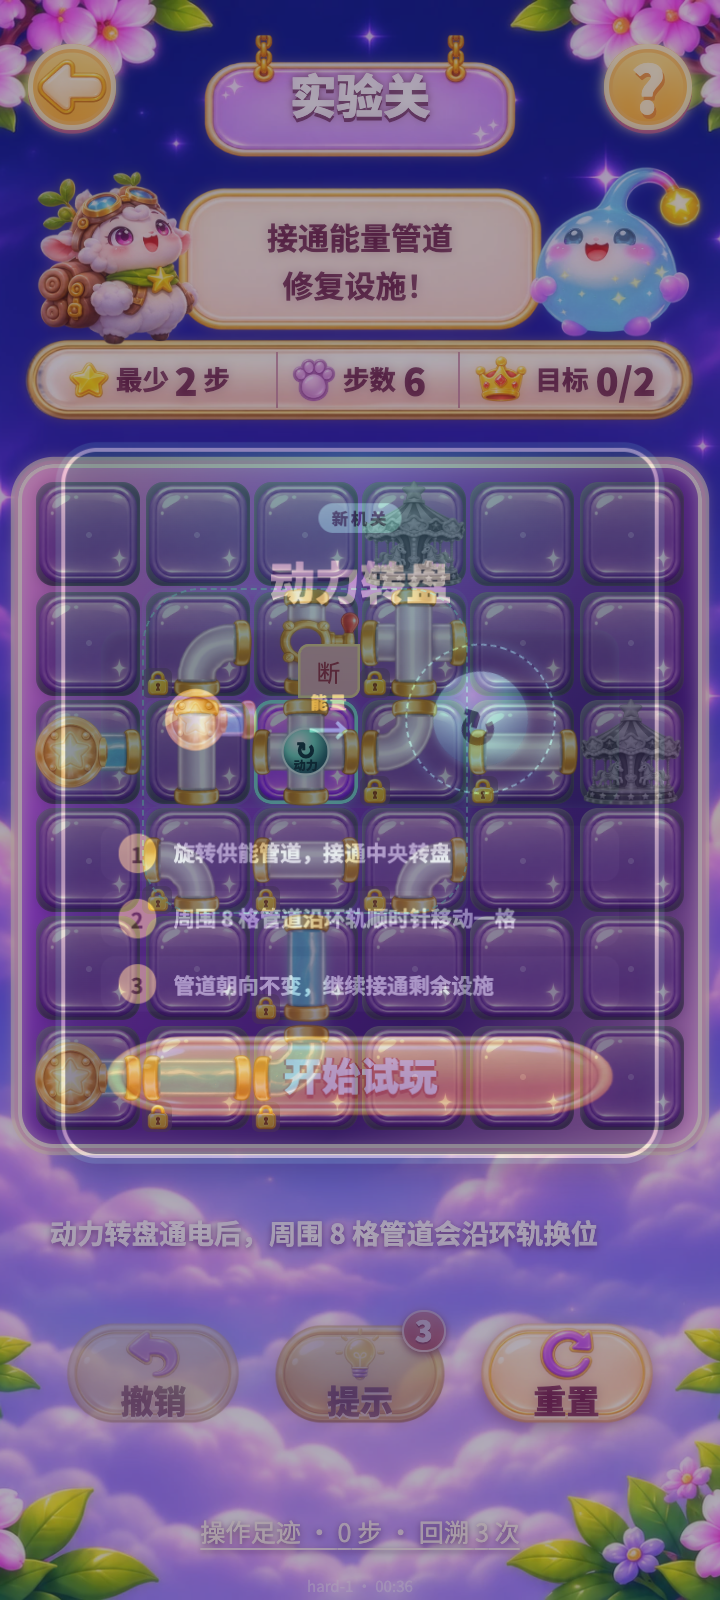
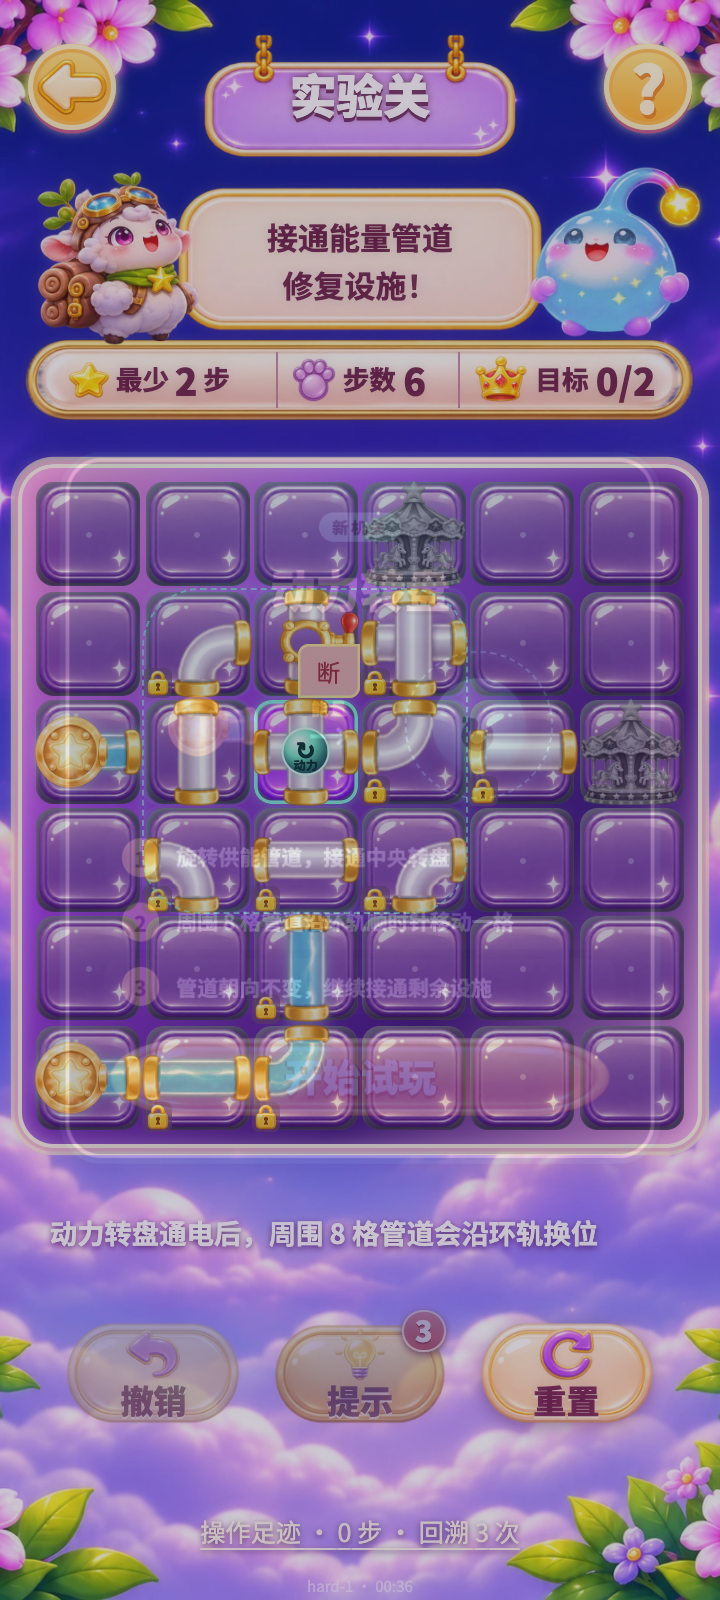
feat: 重做双动力转盘实验关

diff --git a/scripts/test_rotor_ui.ts b/scripts/test_rotor_ui.ts
@@ -1,7 +1,7 @@
 import fs from "node:fs";
 import path from "node:path";
 import { chromium } from "playwright";
-import { closeTransientModals } from "./playwright-game-actions";
+import { clickStep, closeTransientModals } from "./playwright-game-actions";
 
 const BASE_URL = process.env.ROTOR_URL ?? "http://127.0.0.1:3001/";
 const OUTPUT_DIR = path.resolve("docs/QA/rotor-lab-2026-11-25");
@@ -249,8 +249,24 @@ await page.screenshot({
   path: path.join(OUTPUT_DIR, "07-r2-chain-a-390x844.png"),
   animations: "allow",
 });
+await page.waitForTimeout(760);
+const chainAfterA = await page.evaluate(() => ({
+  activeRotors: document.querySelectorAll('[data-type="rotor"][data-rotor-active="true"]').length,
+  movingTiles: document.querySelectorAll(".park-rotor-moving-tile").length,
+  target: document.querySelector("[data-testid=target-count]")?.textContent?.trim(),
+  switchText: document
+    .querySelector('[data-tile-id="lab-3-1"] .park-switch-toggle')
+    ?.textContent?.trim(),
+}));
+await page.locator('[data-tile-id="lab-3-1"] .park-switch-toggle').click();
+await page.waitForTimeout(80);
+const chainAfterASwitch = await page.evaluate(() => ({
+  target: document.querySelector("[data-testid=target-count]")?.textContent?.trim(),
+  remaining: document.querySelector("[data-testid=remaining-steps]")?.textContent?.trim(),
+}));
 
-await page.waitForTimeout(830);
+await page.locator('[data-tile-id="lab-5-3"] .park-tile-rotate').click();
+await page.waitForTimeout(220);
 const chainStepB = await page.evaluate(() => {
   const callout = document.querySelector(".park-rotor-callout");
   const grid = document.querySelector(".park-grid")?.getBoundingClientRect();
@@ -265,17 +281,19 @@ await page.screenshot({
   path: path.join(OUTPUT_DIR, "08-r2-chain-b-390x844.png"),
   animations: "allow",
 });
-
-await page.waitForTimeout(1100);
-const chainAfterSpin = await page.evaluate(() => ({
+await page.waitForTimeout(760);
+const chainAfterB = await page.evaluate(() => ({
   activeRotors: document.querySelectorAll('[data-type="rotor"][data-rotor-active="true"]').length,
-  movingTiles: document.querySelectorAll(".park-rotor-moving-tile").length,
   target: document.querySelector("[data-testid=target-count]")?.textContent?.trim(),
+  switchRotation: document
+    .querySelector('[data-tile-id="lab-2-4"]')
+    ?.getAttribute("data-rotation"),
   switchText: document
-    .querySelector('[data-tile-id="lab-3-2"] .park-switch-toggle')
+    .querySelector('[data-tile-id="lab-2-4"] .park-switch-toggle')
     ?.textContent?.trim(),
 }));
-await page.locator('[data-tile-id="lab-3-2"] .park-switch-toggle').click();
+await clickStep(page, { id: "lab-2-4", taps: 1 });
+await page.locator('[data-tile-id="lab-2-4"] .park-switch-toggle').click();
 await page.locator(".park-victory").waitFor({ timeout: 5_000 });
 await page.screenshot({
   path: path.join(OUTPUT_DIR, "09-r2-chain-victory-390x844.png"),
@@ -346,8 +364,10 @@ const result = {
   afterShift,
   victory,
   chainStepA,
+  chainAfterA,
+  chainAfterASwitch,
   chainStepB,
-  chainAfterSpin,
+  chainAfterB,
   chainVictory,
   compactLessonState,
   compact,
@@ -379,13 +399,19 @@ if (
   afterShift.remaining !== "5" ||
   chainStepA.movingTiles !== 8 ||
   chainStepA.calloutY !== 25 ||
+  chainAfterA.activeRotors !== 1 ||
+  chainAfterA.movingTiles !== 0 ||
+  chainAfterA.target !== "0/2" ||
+  chainAfterA.switchText !== "断" ||
+  chainAfterASwitch.target !== "1/2" ||
+  chainAfterASwitch.remaining !== "4" ||
   chainStepB.movingTiles !== 8 ||
   Math.abs((chainStepB.calloutY ?? 0) - 75) > 2 ||
-  chainAfterSpin.activeRotors !== 2 ||
-  chainAfterSpin.movingTiles !== 0 ||
-  chainAfterSpin.target !== "0/1" ||
-  chainAfterSpin.switchText !== "断" ||
-  chainVictory.steps !== "已用 2 步" ||
+  chainAfterB.activeRotors !== 2 ||
+  chainAfterB.target !== "1/2" ||
+  chainAfterB.switchRotation !== "0" ||
+  chainAfterB.switchText !== "断" ||
+  chainVictory.steps !== "已用 5 步" ||
   !compactLessonState.insideViewport ||
   compactLessonState.bodyOverflowX ||
   compact.bodyOverflowX ||

diff --git a/scripts/test_rotor.ts b/scripts/test_rotor.ts
@@ -90,40 +90,75 @@ const chainFirstTap = chain.tiles.map((tile) =>
     : tile,
 );
 const chainActivated = activatePoweredRotors(chain, chainFirstTap);
-assert.equal(chainActivated.steps.length, 2, "A 转盘应连锁启动 B 转盘");
+assert.equal(chainActivated.steps.length, 1, "A 转盘不应自动启动 B 转盘");
 assert.deepEqual(
   chainActivated.activatedIds,
-  chainRotors.map((tile) => tile.id),
-  "两台转盘应按 A、B 顺序启动",
+  [chainRotors[0].id],
+  "玩家只接通 A 时，只应启动 A",
 );
 
-const chainSwitch = chainActivated.tiles.find(
-  (tile) => tile.id === "lab-3-2",
+const chainASwitch = chainActivated.tiles.find(
+  (tile) => tile.id === "lab-3-1",
 );
-assert(chainSwitch, "R2 换位后能量闸消失");
-assert.equal(chainSwitch.row, 4, "能量闸应换位到第 5 行");
-assert.equal(chainSwitch.col, 2, "能量闸应换位到第 3 列");
-assert.equal(chainSwitch.switchClosed, false, "换位后的能量闸应保持断开");
+assert(chainASwitch, "R2 左侧能量闸消失");
+assert.equal(chainASwitch.switchClosed, false, "左侧能量闸应保持断开");
 
-const chainAfterShift = simulateCircuit(
+const chainAfterA = simulateCircuit(
   chainActivated.tiles,
   chain.gridRows,
   chain.gridCols,
   chain.rules,
 );
-assert.equal(chainAfterShift.litCount, 0, "双转盘启动后仍需玩家扳闸");
+assert.equal(chainAfterA.litCount, 0, "A 启动后仍需玩家扳闸");
 
-const chainFinalTiles = chainActivated.tiles.map((tile) =>
-  tile.id === chainSwitch.id
+const chainAfterASwitch = chainActivated.tiles.map((tile) =>
+  tile.id === chainASwitch.id
     ? { ...tile, switchClosed: true }
     : tile,
 );
-const chainFinal = simulateCircuit(
-  chainFinalTiles,
+const chainAAfterToggle = simulateCircuit(
+  chainAfterASwitch,
   chain.gridRows,
   chain.gridCols,
   chain.rules,
 );
-assert.equal(chainFinal.isAllLit, true, "R2 扳闸后应点亮设施");
+assert.equal(chainAAfterToggle.litCount, 1, "左侧路线应点亮第一处设施");
 
-console.log("R2 双转盘：A→B 连锁、两次顺序换位与最终扳闸均通过");
+const chainBFeeder = chain.tiles.find(
+  (tile) => tile.row === 5 && tile.col === 3,
+);
+assert(chainBFeeder, "R2 缺少右侧转盘供能直管");
+const chainBTap = chainAfterASwitch.map((tile) =>
+  tile.id === chainBFeeder.id
+    ? { ...tile, rotation: tile.rotation + 90 }
+    : tile,
+);
+const chainBActivated = activatePoweredRotors(chain, chainBTap);
+assert.equal(chainBActivated.steps.length, 1, "B 转盘应独立启动");
+assert.deepEqual(
+  chainBActivated.activatedIds,
+  [chainRotors[1].id],
+  "B 转盘启动顺序应独立",
+);
+
+const chainBSwitch = chainBActivated.tiles.find(
+  (tile) => tile.id === "lab-2-4",
+);
+assert(chainBSwitch, "R2 右侧能量闸消失");
+assert.equal(chainBSwitch.rotation, 0, "右侧能量闸需要玩家先转向");
+assert.equal(chainBSwitch.switchClosed, false, "右侧能量闸应保持断开");
+
+const chainBSwitchAligned = chainBActivated.tiles.map((tile) =>
+  tile.id === chainBSwitch.id
+    ? { ...tile, rotation: tile.rotation + 90, switchClosed: true }
+    : tile,
+);
+const chainFinal = simulateCircuit(
+  chainBSwitchAligned,
+  chain.gridRows,
+  chain.gridCols,
+  chain.rules,
+);
+assert.equal(chainFinal.isAllLit, true, "两条独立路线完成后应点亮全部设施");
+
+console.log("R2 双转盘：左右独立启动、转向与扳闸共五步均通过");

diff --git a/src/data/labLevels.ts b/src/data/labLevels.ts
@@ -291,8 +291,8 @@ const ROTOR_RING: Put[] = [
 ];
 
 /**
- * R2 双转盘：左侧 A 启动后把下路管线换到 B 的供能口，B 随即启动。
- * B 的环轨把一扇断开的能量闸送到目标线路，玩家最后扳通它。
+ * R2 双机关：左右两台转盘使用独立供能线和独立目标。
+ * 玩家自行选择先修哪边；每次启动转盘后，还要把换位后的能量闸扳通。
  */
 const ROTOR_CHAIN: Put[] = [
   [0, 0, "corner", 0, { locked: true }],
@@ -306,18 +306,25 @@ const ROTOR_CHAIN: Put[] = [
   [2, 1, "line", 0, { locked: true }],
   [2, 2, "corner", 0, { locked: true }],
   [2, 3, "battery", 180, { locked: true }],
+  [3, 1, "switch", 90, { switchClosed: false }],
+  [4, 1, "bulb", 0, { locked: true }],
 
-  [3, 0, "corner", 0, { locked: true }],
-  [3, 1, "t_shape", 270, { locked: true }],
-  [3, 2, "switch", 90, { switchClosed: false }],
-  [3, 3, "battery", 180, { locked: true }],
+  [3, 0, "line", 0, { locked: true }],
+  [3, 2, "battery", 0, { locked: true }],
+  [3, 3, "corner", 180, { locked: true }],
+  [3, 5, "corner", 0, { locked: true }],
   [4, 0, "line", 90, { locked: true }],
-  [4, 1, "rotor", 0, { locked: true, rotorRadius: 1 }],
-  [4, 2, "t_shape", 180, { locked: true }],
-  [5, 0, "corner", 270, { locked: true }],
-  [5, 1, "line", 0, { locked: true }],
-  [5, 2, "corner", 180, { locked: true }],
-  [5, 3, "bulb", 0, { locked: true }],
+  [4, 3, "line", 0, { locked: true }],
+  [4, 4, "rotor", 0, { locked: true, rotorRadius: 1 }],
+  [4, 5, "corner", 270, { locked: true }],
+  [5, 0, "line", 90, { locked: true }],
+  [5, 2, "battery", 0, { locked: true }],
+  [5, 3, "line", 90],
+  [5, 4, "corner", 180, { locked: true }],
+  [5, 5, "line", 0, { locked: true }],
+
+  [1, 4, "bulb", 0, { locked: true }],
+  [2, 4, "switch", 0, { switchClosed: false }],
 ];
 
 export const LAB_LEVELS: LevelConfig[] = [
@@ -463,18 +470,18 @@ export const LAB_LEVELS: LevelConfig[] = [
     id: 951,
     code: "R2",
     totalLevels: 99,
-    title: "动力转盘 · 机关带动机关",
+    title: "动力转盘 · 先修哪一边",
     subtitle: "双机关",
-    hintText: "先接通左侧转盘。第二台转盘会自动启动，最后扳通换到右侧的能量闸。",
-    winText: "试验通过：一台机关启动了下一台。",
-    parSteps: 2,
-    maxSteps: 8,
+    hintText: "左右两台转盘各有独立路线。先比较两边，再启动一台转盘；环轨换位后扳通能量闸。",
+    winText: "试验通过：两边机关都按自己的路线接好了。",
+    parSteps: 5,
+    maxSteps: 6,
     gridRows: 6,
     gridCols: 6,
     mechanicTags: ["rotor", "switch"],
     primaryMechanic: "rotor",
-    questionType: "顺序",
-    role: "练",
+    questionType: "取舍",
+    role: "变",
     tiles: board(ROTOR_CHAIN),
   },
   {

diff --git a/docs/superpowers/specs/2026-11-25-powered-rotor-choice-design.md b/docs/superpowers/specs/2026-11-25-powered-rotor-choice-design.md
@@ -1,0 +1,37 @@
+# 双动力转盘选择实验关
+
+## 目标
+
+在 R1 验证教学和手感后，让两台动力转盘形成两条独立可操作路线。玩家要观察盘面、选择路线并亲自完成后续接线，不再观看自动连锁演出。
+
+## 关卡规则
+
+- 关卡代码为 `R2`，标题为“动力转盘 · 先修哪一边”。
+- 关卡包含 A、B 两台动力转盘。
+- A、B 各自拥有独立供能源和独立设施。
+- 两台转盘互不自动供能，玩家可以自行选择先启动哪一台。
+- A 路线需要“启动转盘 + 扳闸”，共 2 步。
+- B 路线需要“启动转盘 + 旋转能量闸 + 扳闸”，共 3 步。
+- 两处设施全部点亮后通关，最优解 5 步，预算 6 步。
+
+## 玩家决策
+
+- 先比较左右两条线路的后续操作数量。
+- 选择先完成较短路线或优先处理更容易误判的路线。
+- 能量闸位置由环轨换位改变，不能只按开局坐标规划。
+- B 路线换位后的能量闸朝向错误，需要先旋转再扳通。
+
+## 动画
+
+- `activatePoweredRotors` 返回按实际启动顺序排列的换位步骤。
+- 每个步骤包含该转盘启动前后的完整盘面。
+- 多个转盘在同一操作中启动时依次播放，不重叠。
+- R2 的两台转盘由玩家分别启动，因此每次只播放当前转盘的换位。
+
+## 验证
+
+- A 启动后 B 不会被激活。
+- A 启动后仍需扳闸，完成 A 路线后目标为 `1/2`。
+- B 独立启动后，换位能量闸初始朝向为错误状态。
+- B 完成转向与扳闸后目标达到 `2/2`。
+- 最优操作序列共 5 步。

diff --git a/docs/QA/rotor-lab-2026-11-25/README.md b/docs/QA/rotor-lab-2026-11-25/README.md
@@ -49,24 +49,24 @@
 
 ![通关结果](04-rotor-victory-390x844.png)
 
-## R2 双转盘连锁
+## R2 双转盘选择
 
 首页实验场新增“机关 R2 · 双机关”。
 
 ![R2 初始盘面](06-r2-chain-initial-390x844.png)
 
-点击上方供能直管后：
+左右两台转盘拥有独立供能线和独立目标，玩家自行选择先修哪边：
 
-1. A 转盘先启动，移动上层环轨。
-2. 换位后的管线接通 B 转盘，B 转盘继续启动。
-3. 两段动画依次播放，环轨提示跟随当前启动的转盘。
-4. 动画结束后两台转盘均为已启动状态，目标仍为 `0/1`。
+1. 左侧 A 路线需要启动转盘并扳闸，共 2 步。
+2. 右侧 B 路线需要启动转盘、转向换位后的能量闸并扳闸，共 3 步。
+3. 两台转盘不会自动启动彼此，先走哪边由玩家决定。
+4. 两条路线全部完成后共 5 步，剩余 1 步作为纠错空间。
 
 ![A 转盘换位](07-r2-chain-a-390x844.png)
 
 ![B 转盘换位](08-r2-chain-b-390x844.png)
 
-最后扳通换位到右侧的能量闸，设施点亮并完成关卡。
+先完成 A 后目标为 `1/2`；再完成 B 的转向和扳闸，目标达到 `2/2`。
 
 ![R2 通关](09-r2-chain-victory-390x844.png)
 
